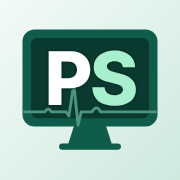
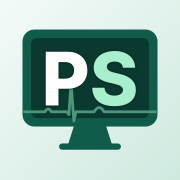
Icono: onda ECG con la R junto a la Q y la T alejada de la S
Se cambia el trazo del latido del icono (propuesta A): la R queda a
6 unidades de la Q y la T se separa de la S. Se regeneran los PNG de
la web (icon-512/192/180, favicon, maskable) y los mipmap de Android.

Claude-Session: https://claude.ai/code/session_01R6CL9Y27hc3y3V93YZZEj1

diff --git a/propuestas/icono_ps_monitor.html b/propuestas/icono_ps_monitor.html
@@ -6,7 +6,7 @@
 <p class="sub">Maqueta sin aplicar. Cinco propuestas con los colores de la nueva imagen (verde de la cabecera, menta y el trazo del latido). Cada una se ve como icono cuadrado redondeado (iPhone/iPad), recortado en círculo (Android) y a tamaño pequeño de pantalla de inicio.</p>
 <div class="grid"><section class="card"><h2>A · Monitor de fondo, latido detrás de las letras</h2><div class="row"><div class="ic sq"><svg viewBox="0 0 512 512" xmlns="http://www.w3.org/2000/svg"><defs><linearGradient id="gA" x1="0" y1="0" x2="1" y2="1"><stop offset="0" stop-color="#168066"/><stop offset="1" stop-color="#0a3a2f"/></linearGradient><filter id="bA" x="-20%" y="-20%" width="140%" height="140%"><feGaussianBlur stdDeviation="6"/></filter></defs><rect width="512" height="512" fill="url(#gA)"/><rect x="64" y="84" width="384" height="276" rx="34" fill="#0a2f27" stroke="#a8f0cd" stroke-opacity=".35" stroke-width="10"/><path d="M90 112 V332" stroke="#a8f0cd" stroke-opacity=".07" stroke-width="2"/><path d="M150 112 V332" stroke="#a8f0cd" stroke-opacity=".07" stroke-width="2"/><path d="M210 112 V332" stroke="#a8f0cd" stroke-opacity=".07" stroke-width="2"/><path d="M270 112 V332" stroke="#a8f0cd" stroke-opacity=".07" stroke-width="2"/><path d="M330 112 V332" stroke="#a8f0cd" stroke-opacity=".07" stroke-width="2"/><path d="M390 112 V332" stroke="#a8f0cd" stroke-opacity=".07" stroke-width="2"/><path d="M92 138 H420" stroke="#a8f0cd" stroke-opacity=".07" stroke-width="2"/><path d="M92 186 H420" stroke="#a8f0cd" stroke-opacity=".07" stroke-width="2"/><path d="M92 234 H420" stroke="#a8f0cd" stroke-opacity=".07" stroke-width="2"/><path d="M92 282 H420" stroke="#a8f0cd" stroke-opacity=".07" stroke-width="2"/>
 <path d="M214 360 h84 l16 50 h-116z" fill="#0a2f27" stroke="#a8f0cd" stroke-opacity=".35" stroke-width="10" stroke-linejoin="round"/>
-<rect x="168" y="408" width="176" height="16" rx="8" fill="#a8f0cd" fill-opacity=".35"/><path d="M70 318 H128 q9 -16 18 0 H188 l8 12 l14 -92 l12 118 l9 -38 H262 q12 -22 24 0 H442" fill="none" stroke="#4c967d" stroke-width="9" stroke-linecap="round" stroke-linejoin="round"/><text x="256" y="312" text-anchor="middle" font-family="Inter,system-ui,-apple-system,Segoe UI,Roboto,sans-serif" font-weight="800" font-size="250" letter-spacing="-8" stroke="#06241d" stroke-opacity=".35" stroke-width="10" paint-order="stroke" ><tspan fill="#ffffff">P</tspan><tspan fill="#a8f0cd">S</tspan></text></svg></div><div class="ic ci"><svg viewBox="0 0 512 512" xmlns="http://www.w3.org/2000/svg"><defs><linearGradient id="gA" x1="0" y1="0" x2="1" y2="1"><stop offset="0" stop-color="#168066"/><stop offset="1" stop-color="#0a3a2f"/></linearGradient><filter id="bA" x="-20%" y="-20%" width="140%" height="140%"><feGaussianBlur stdDeviation="6"/></filter></defs><rect width="512" height="512" fill="url(#gA)"/><rect x="64" y="84" width="384" height="276" rx="34" fill="#0a2f27" stroke="#a8f0cd" stroke-opacity=".35" stroke-width="10"/><path d="M90 112 V332" stroke="#a8f0cd" stroke-opacity=".07" stroke-width="2"/><path d="M150 112 V332" stroke="#a8f0cd" stroke-opacity=".07" stroke-width="2"/><path d="M210 112 V332" stroke="#a8f0cd" stroke-opacity=".07" stroke-width="2"/><path d="M270 112 V332" stroke="#a8f0cd" stroke-opacity=".07" stroke-width="2"/><path d="M330 112 V332" stroke="#a8f0cd" stroke-opacity=".07" stroke-width="2"/><path d="M390 112 V332" stroke="#a8f0cd" stroke-opacity=".07" stroke-width="2"/><path d="M92 138 H420" stroke="#a8f0cd" stroke-opacity=".07" stroke-width="2"/><path d="M92 186 H420" stroke="#a8f0cd" stroke-opacity=".07" stroke-width="2"/><path d="M92 234 H420" stroke="#a8f0cd" stroke-opacity=".07" stroke-width="2"/><path d="M92 282 H420" stroke="#a8f0cd" stroke-opacity=".07" stroke-width="2"/>
+<rect x="168" y="408" width="176" height="16" rx="8" fill="#a8f0cd" fill-opacity=".35"/><path d="M70 318 H128 q9 -16 18 0 H190 l6 8 l6 -92 l8 110 l6 -26 H268 q14 -24 28 0 H442" fill="none" stroke="#4c967d" stroke-width="9" stroke-linecap="round" stroke-linejoin="round"/><text x="256" y="312" text-anchor="middle" font-family="Inter,system-ui,-apple-system,Segoe UI,Roboto,sans-serif" font-weight="800" font-size="250" letter-spacing="-8" stroke="#06241d" stroke-opacity=".35" stroke-width="10" paint-order="stroke" ><tspan fill="#ffffff">P</tspan><tspan fill="#a8f0cd">S</tspan></text></svg></div><div class="ic ci"><svg viewBox="0 0 512 512" xmlns="http://www.w3.org/2000/svg"><defs><linearGradient id="gA" x1="0" y1="0" x2="1" y2="1"><stop offset="0" stop-color="#168066"/><stop offset="1" stop-color="#0a3a2f"/></linearGradient><filter id="bA" x="-20%" y="-20%" width="140%" height="140%"><feGaussianBlur stdDeviation="6"/></filter></defs><rect width="512" height="512" fill="url(#gA)"/><rect x="64" y="84" width="384" height="276" rx="34" fill="#0a2f27" stroke="#a8f0cd" stroke-opacity=".35" stroke-width="10"/><path d="M90 112 V332" stroke="#a8f0cd" stroke-opacity=".07" stroke-width="2"/><path d="M150 112 V332" stroke="#a8f0cd" stroke-opacity=".07" stroke-width="2"/><path d="M210 112 V332" stroke="#a8f0cd" stroke-opacity=".07" stroke-width="2"/><path d="M270 112 V332" stroke="#a8f0cd" stroke-opacity=".07" stroke-width="2"/><path d="M330 112 V332" stroke="#a8f0cd" stroke-opacity=".07" stroke-width="2"/><path d="M390 112 V332" stroke="#a8f0cd" stroke-opacity=".07" stroke-width="2"/><path d="M92 138 H420" stroke="#a8f0cd" stroke-opacity=".07" stroke-width="2"/><path d="M92 186 H420" stroke="#a8f0cd" stroke-opacity=".07" stroke-width="2"/><path d="M92 234 H420" stroke="#a8f0cd" stroke-opacity=".07" stroke-width="2"/><path d="M92 282 H420" stroke="#a8f0cd" stroke-opacity=".07" stroke-width="2"/>
 <path d="M214 360 h84 l16 50 h-116z" fill="#0a2f27" stroke="#a8f0cd" stroke-opacity=".35" stroke-width="10" stroke-linejoin="round"/>
 <rect x="168" y="408" width="176" height="16" rx="8" fill="#a8f0cd" fill-opacity=".35"/><path d="M70 318 H128 q9 -16 18 0 H188 l8 12 l14 -92 l12 118 l9 -38 H262 q12 -22 24 0 H442" fill="none" stroke="#4c967d" stroke-width="9" stroke-linecap="round" stroke-linejoin="round"/><text x="256" y="312" text-anchor="middle" font-family="Inter,system-ui,-apple-system,Segoe UI,Roboto,sans-serif" font-weight="800" font-size="250" letter-spacing="-8" stroke="#06241d" stroke-opacity=".35" stroke-width="10" paint-order="stroke" ><tspan fill="#ffffff">P</tspan><tspan fill="#a8f0cd">S</tspan></text></svg></div><div class="sm"><div class="ic sq s48"><svg viewBox="0 0 512 512" xmlns="http://www.w3.org/2000/svg"><defs><linearGradient id="gA" x1="0" y1="0" x2="1" y2="1"><stop offset="0" stop-color="#168066"/><stop offset="1" stop-color="#0a3a2f"/></linearGradient><filter id="bA" x="-20%" y="-20%" width="140%" height="140%"><feGaussianBlur stdDeviation="6"/></filter></defs><rect width="512" height="512" fill="url(#gA)"/><rect x="64" y="84" width="384" height="276" rx="34" fill="#0a2f27" stroke="#a8f0cd" stroke-opacity=".35" stroke-width="10"/><path d="M90 112 V332" stroke="#a8f0cd" stroke-opacity=".07" stroke-width="2"/><path d="M150 112 V332" stroke="#a8f0cd" stroke-opacity=".07" stroke-width="2"/><path d="M210 112 V332" stroke="#a8f0cd" stroke-opacity=".07" stroke-width="2"/><path d="M270 112 V332" stroke="#a8f0cd" stroke-opacity=".07" stroke-width="2"/><path d="M330 112 V332" stroke="#a8f0cd" stroke-opacity=".07" stroke-width="2"/><path d="M390 112 V332" stroke="#a8f0cd" stroke-opacity=".07" stroke-width="2"/><path d="M92 138 H420" stroke="#a8f0cd" stroke-opacity=".07" stroke-width="2"/><path d="M92 186 H420" stroke="#a8f0cd" stroke-opacity=".07" stroke-width="2"/><path d="M92 234 H420" stroke="#a8f0cd" stroke-opacity=".07" stroke-width="2"/><path d="M92 282 H420" stroke="#a8f0cd" stroke-opacity=".07" stroke-width="2"/>
 <path d="M214 360 h84 l16 50 h-116z" fill="#0a2f27" stroke="#a8f0cd" stroke-opacity=".35" stroke-width="10" stroke-linejoin="round"/>
